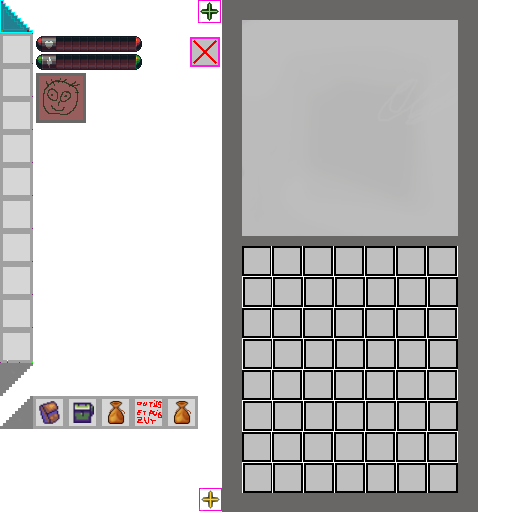
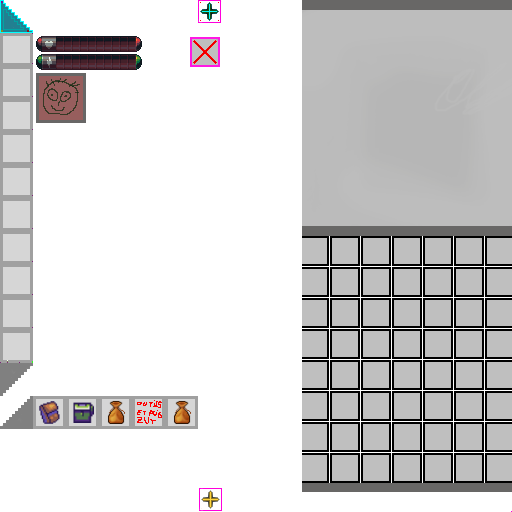
Inventaire qui ne marcher pas.

diff --git a/src/modeles/entities2D/HUDTextureManager.java b/src/modeles/entities2D/HUDTextureManager.java
@@ -67,8 +67,7 @@ public class HUDTextureManager {
 			return genHotBarText();
 			//return genBarreSac();
 		case 4:
-			return genHotBarText();
-			//return genInventaire2D();
+			return genInventaire2D();
 		case 5:
 			return genHotBarText();
 			//return genMenuJeu();
@@ -97,7 +96,15 @@ public class HUDTextureManager {
 	}
 
 	private float[] genInventaire2D() {
-		return new float[]{};
+		return new float[]{
+				1f, 492/512f,
+				1f, 0f,
+				302/512f, 0f,
+				
+				302/512f, 0f,
+				302/512f, 492/512f,
+				1f, 492/512f,
+		};
 	}
 
 	private float[] genBarreSac() {

diff --git a/src/modeles/entities2D/Inventaire2D.java b/src/modeles/entities2D/Inventaire2D.java
@@ -53,7 +53,7 @@ public class Inventaire2D extends AbstractEntity2D{
 
 	@Override
 	public int getType() {
-		return 0;
+		return 4;
 	}
 
 
